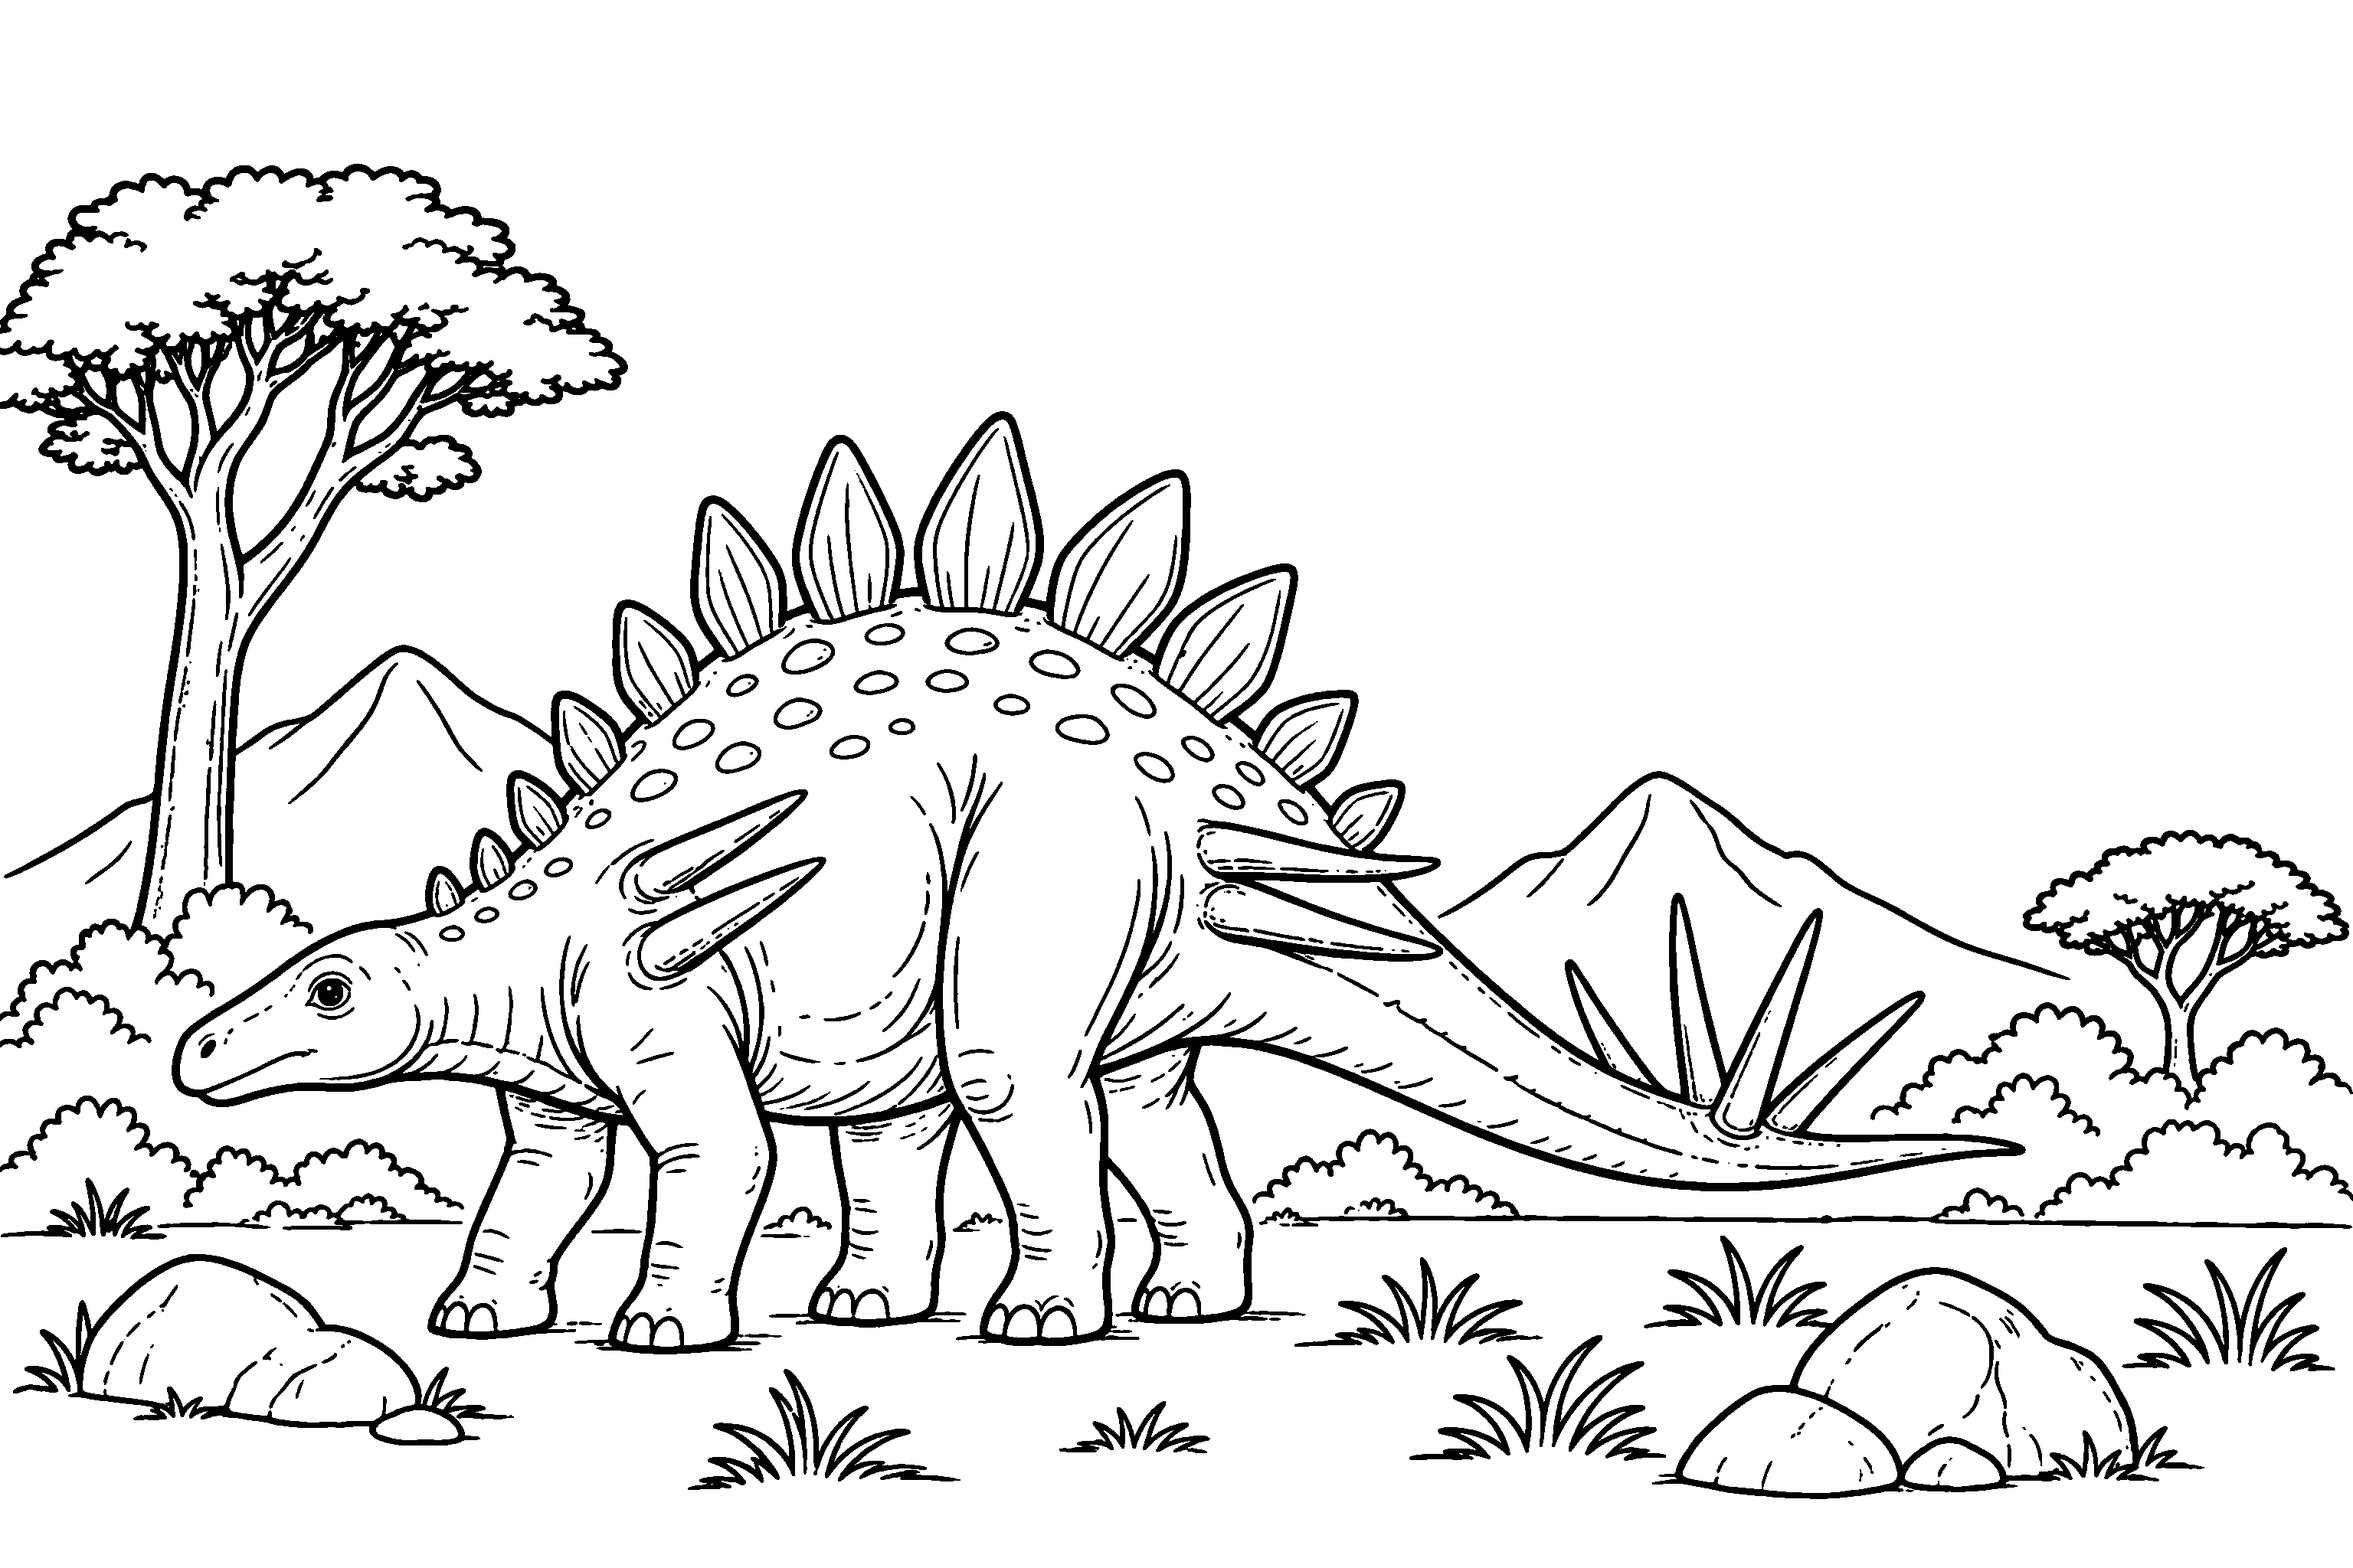
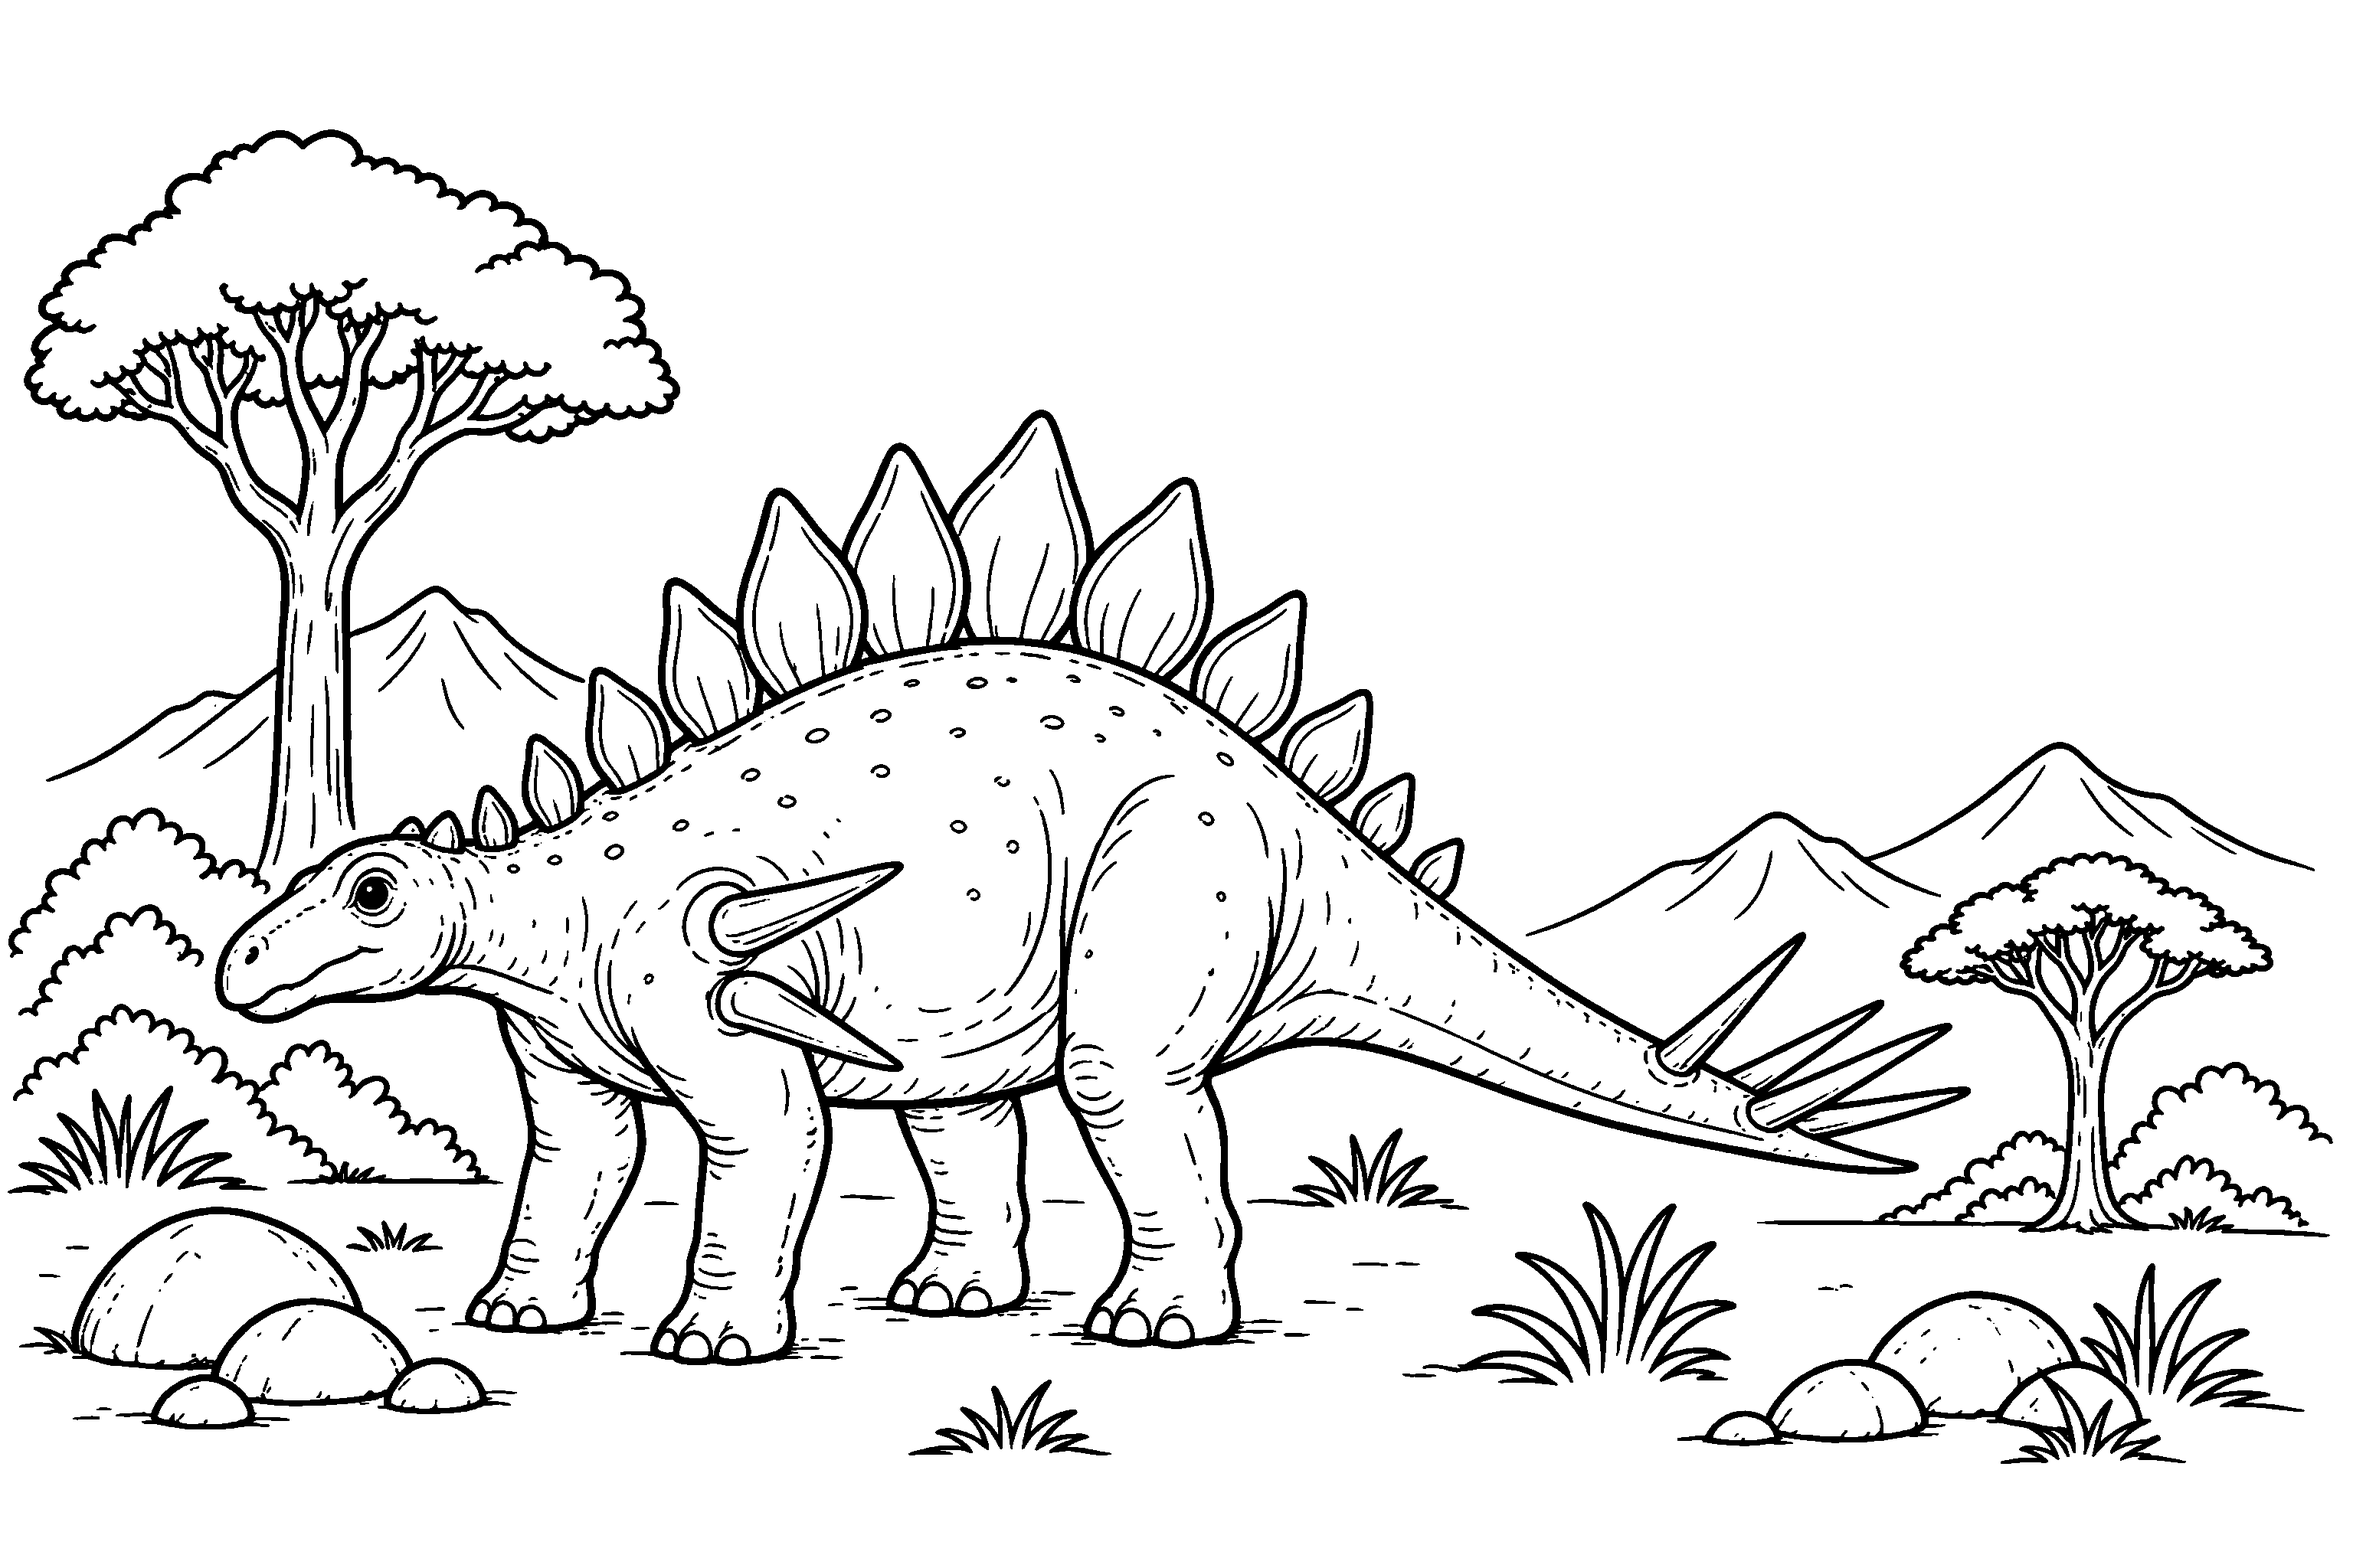
Ret dinosaurer med forkert antal ben
Edmontosaurus, Iguanodon, Kentrosaurus, Lambeosaurus og Yutyrannus havde
fået for mange ben eller arme af billed-AI'en. De er tegnet om, og
tegneopskriften kræver nu det rigtige antal ben og arme. Edmontosaurus
har ikke længere en kam på hovedet, og Lambeosaurus står på to ben.

Claude-Session: https://claude.ai/code/session_018WuRw6FcLVtxsQAAb5r4u7

Changed region(s): [[0.0, 0.0625, 1.0, 0.9688]]

diff --git a/tegn.js b/tegn.js
@@ -28,6 +28,7 @@ const STIL = `Use the attached image ONLY as a style reference: a children's col
 Draw a NEW picture in exactly that style. The dinosaur (description in Danish): `;
 
 const REGLER = `
+Anatomy must be correct — count the limbs before finishing: a four-legged dinosaur has EXACTLY four legs (two front, two hind); a two-legged dinosaur has EXACTLY two legs and two arms. No extra legs, arms, feet, heads or tails, and every leg must clearly attach to the body.
 Rules: pure black lines on a pure white background. No gray, no shading, no hatching, no solid black fills except the eye. No text, no letters, no border or frame. Landscape format. The whole dinosaur must be inside the picture, placed slightly left of center and low. Keep the TOP RIGHT corner completely empty white (about one third of the width and one fifth of the height) — no clouds, trees or lines there.`;
 
 const args = process.argv.slice(2);
